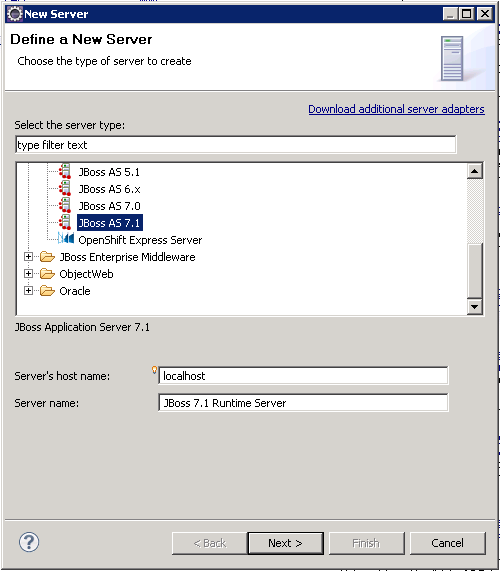
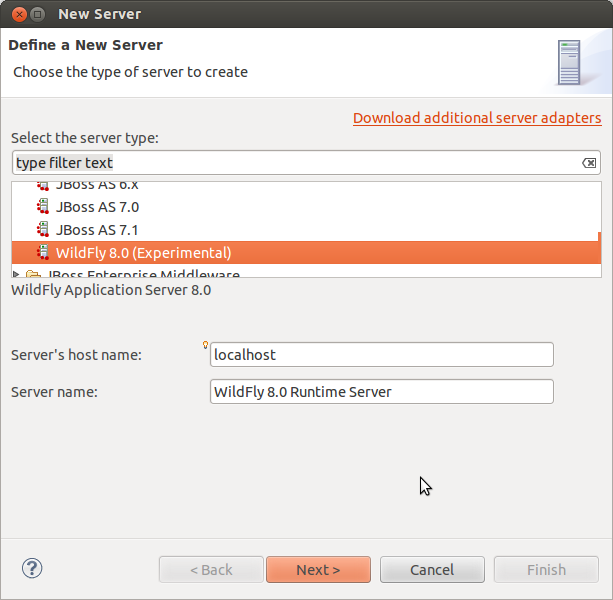
Update screenshots

diff --git a/lectures/eai/010_tutorial_jboss_setup.html b/lectures/eai/010_tutorial_jboss_setup.html
@@ -51,8 +51,8 @@ title: Installing and Configuring WildFly and JBoss Tools
 <li>When prompted to do so, <b>"Restart Now"</b>.</li>
 <li>After <b>closing </b>the <b>"Welcome" window</b> you will see the "Java EE" perspective. The selected perspective is indicated in the upper right corner as shown in the following figure:<br /> <img src="images/eclipse_jee_perspective.png" alt="" width="293" height="153" /><br /> If the Java EE button is not visible you can change to the Java EE perspective via "Window-&gt;Open Perspective-&gt;Other..." . In the "Open Perspective" dialog double click the Java EE entry.</li>
 <li><b>Activate </b>the <b>"Servers" view</b> tab in the lower right of the window. <b>Right-click</b> the empty area and <b>select "New-&gt;Server"</b> as shown in this screenshot:<br /> <a href="eclipse_server_view.png"><img src="images/eclipse_server_view.png" alt="" width="523" height="120" /></a></li>
-<li>In the "New Server" window select <b>"WildFly 8"</b> (from the JBoss Community category) <b>as server type</b> and click <b>"Next"</b>.<br /> <img src="images/eclipse_new_server.png" alt="" width="500" height="571" /><br /> <b>Set</b> the <b>"Home Directory"</b> entry to the installation directory of the WildFly AS, e.g. <small><tt>C:\EAI\wildfly-8.0.0.Final</tt></small>, and <b>click "Finish"</b>.</li>
-<li>In the "Servers" view <b>select the newly created server</b> and click the green <b>start button</b>.<br /> <img src="images/eclipse_server_start.png" alt="" width="600" height="83" /><br /> A new "Console" view will open showing the startup logs of the WildFly AS.</li>
+<li>In the "New Server" window select <b>"WildFly 8"</b> (from the JBoss Community category) <b>as server type</b> and click <b>"Next"</b>.<br /> <img src="images/eclipse_new_server.png" alt="" width="613" height="600" /><br /> <b>Set</b> the <b>"Home Directory"</b> entry to the installation directory of the WildFly AS, e.g. <small><tt>C:\EAI\wildfly-8.0.0.Final</tt></small>, and <b>click "Finish"</b>.</li>
+<li>In the "Servers" view <b>select the newly created server</b> and click the green <b>start button</b>.<br /> <img src="images/eclipse_server_start.png" alt="" width="825" height="137" /><br /> A new "Console" view will open showing the startup logs of the WildFly AS.</li>
 </ol>
 <p>Congratulations, you have successfully installed WildFly and JBoss Tools!<br /> Continue with the <a class="int" href="020_tutorial_jboss_project.html">setup of your first Java EE project</a>.<br /></p>
 <h3><a id="envvar" name="envvar"></a>How To Set Environment Variables</h3>

diff --git a/lectures/eai/020_tutorial_jboss_project.html b/lectures/eai/020_tutorial_jboss_project.html
@@ -24,10 +24,10 @@ title: Creating Java EE projects with JBoss Tools
 <li>Choose <b>"Select archive file"</b> and browse to the archive from step 1.</li>
 <li><b>Four projects</b> called Library, Library-EJB, Library-Persistence and Library-Web should appear under "Projects". Make sure all four are selected and <b>"Finish"</b>.</li>
 <li>The project explorer should now contain the four projects. Eclipse will automatically validate and build the projects.<br />
-<div style="margin-left: 40px;"><img src="images/library_projects.png" alt="" width="265" height="785" /></div>
+<div style="margin-left: 40px;"><img src="images/library_projects.png" alt="" width="475" height="954" /></div>
 </li>
 <li><a id="import-deploy" name="import-deploy"></a>In the "Servers" tab, <b>right-click</b> on your <b>WildFly 8 server</b> and select <b>"Add and Remove..."</b>.<br />
-<div style="margin-left: 40px;"><img src="images/library_add.png" alt="" width="433" height="260" /></div>
+<div style="margin-left: 40px;"><img src="images/library_add.png" alt="" width="570" height="272" /></div>
 </li>
 <li>Select the <b>library application</b> and click <b>"Add &gt;"</b>, then "Finish.</li>
 <li><b>Start the server</b> and wait until the application has been deployed.</li>
